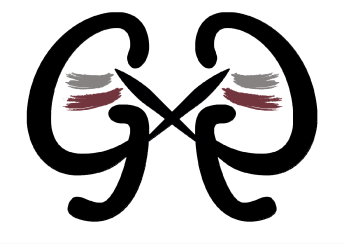
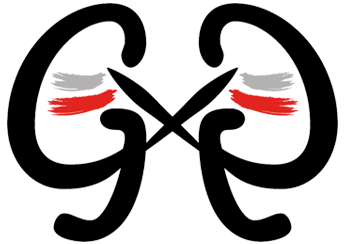
Piccolo update parte 2
- Sistemata immagine gxg;
- Centrati altri elementi;
- Centrato il glider;

diff --git a/css/glider.css b/css/glider.css
@@ -1,10 +1,10 @@
 .glider-contain {
   width: 100%;
-  margin: 0 auto;
+  margin: auto;
   position: relative;
 }
 .glider {
-  margin: 0 auto;
+  margin: auto;
   position: relative;
   overflow-y: hidden;
   -webkit-overflow-scrolling: touch;
@@ -50,7 +50,7 @@
   position: absolute;
   outline: none;
   background: none;
-  padding: 0;
+  padding-top: 7%;
   z-index: 2;
   font-size: 40px;
   text-decoration: none;

diff --git a/css/style_index.css b/css/style_index.css
@@ -10,6 +10,20 @@ html, body{
   padding-left: 20%;
 }
 
+#titoloGlider {
+  color: #e21212;
+  text-align: center;
+}
+
+#titoloGxg {
+  color: #e21212;
+  text-align: center;
+}
+
+.container {
+  text-align: center;
+}
+
 /* Main styles */
 
 .text {
@@ -128,6 +142,7 @@ h3 {
 
 .glider-prev,.glider-next { 
   top: 39% !important; 
+  padding-top: 7% !important;
 }
 
 /* fine style per glider */

diff --git a/index.php b/index.php
@@ -58,16 +58,16 @@
             <div class="container">
                 <br>
                 <br>
-            <div class="glider-contain">
-            <div class="glider">
-            <?=getAllImgGlider()?>
-            
-            </div>
-                    
-            <button class="glider-prev">&laquo;</button>
-            <button class="glider-next">&raquo;</button>
-                    
-            <div id="dots"></div>
+                <div class="glider-contain">
+                    <h2 id="titoloGlider"> Ultimi video GxG </h2>
+                    <hr>
+                    <div class="glider">
+                        <?=getAllImgGlider()?>
+                    </div>     
+                    <button class="glider-prev">&laquo;</button>
+                    <button class="glider-next">&raquo;</button>
+                </div>        
+                <div id="dots"></div>
                 <br>
                 <br>
                 <hr>
@@ -90,7 +90,7 @@
                     <img src="media/img/gxg.png">
                 </div>
                 <div class="col-md-6 col-xs-6">
-                    <h2>Giovani x Giovani</h2>
+                    <h2 id="titoloGxg">Giovani x Giovani</h2>
                     <p>                    
                         GxG è il portale di Fondazione Edulife che permette di condividere le storie e le passioni delle persone che compongono questa realtà.
                         Storie di giovani per giovani, storie di vita vissuta, storie che tutti avremmo potuto vivere.
